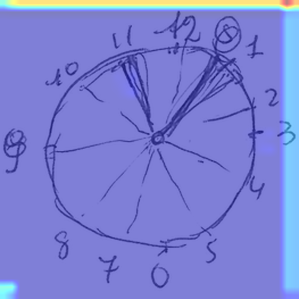
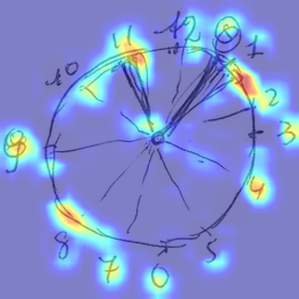
working ui for all models

diff --git a/predictor.py b/predictor.py
@@ -5,6 +5,9 @@ import pandas as pd
 import joblib
 import numpy as np
 
+from torchvision.io import decode_image, ImageReadMode
+from torchvision.transforms import v2
+
 ROOT = os.path.dirname(os.path.abspath(__file__))
 sys.path.append(os.path.join(ROOT, "src"))
 
@@ -12,9 +15,7 @@ from models.cnn import CNN
 from models.mlp import KinematicMLP
 from models.fusion import IntermediateFusionModel
 
-from preprocess import preprocess_image
 from evaluation.gradcam import generate_gradcam
-
 
 class Predictor:
     def __init__(self):
@@ -30,27 +31,40 @@ class Predictor:
         self.mlp.load_state_dict(torch.load("models/mlp.pth", map_location=self.device))
         self.mlp.eval()
 
-        self.mlpselector = joblib.load("models/mlp_selector.pkl")
-        self.mlpscaler = joblib.load("models/mlp_scaler.pkl")
+        self.mlp_selector = joblib.load("models/mlp_selector.pkl")
+        self.mlp_scaler = joblib.load("models/mlp_scaler.pkl")
 
         # fusion model
         self.fusion = IntermediateFusionModel("models/cnn.pth", "models/mlp_fusion.pth", 18)
         self.fusion.load_state_dict(torch.load("models/fusion.pth", map_location=self.device))
         self.fusion.eval()
 
+        self.fusion_scaler = joblib.load("models/fusion_scaler.pkl")
+
     def predict(self, image_path=None, csv_path=None):
         # image only - CNN
         if image_path and not csv_path:
-            image = preprocess_image(image_path)
-            logits = self.cnn(image)
+            image = self._preprocess_image(image_path)
+
+            with torch.no_grad():
+                logits = self.cnn(image)
+
             probs = torch.softmax(logits, dim=1)
             prob = float(probs[0, 1])
+
             gradcam_file = generate_gradcam(self.cnn, image_path)
+
+            if prob >= 0.5:
+                prediction = "Alzheimer"
+                confidence = prob
+            else:
+                prediction = "Control"
+                confidence = 1 - prob
 
             return {
                 "model_used": "CNN",
-                "prediction": "Alzheimer" if prob >= 0.5 else "Control",
-                "confidence": prob,
+                "prediction": prediction,
+                "confidence": confidence,
                 "gradcam": f"/static/gradcams/{gradcam_file}"
             }
 
@@ -78,12 +92,26 @@ class Predictor:
             }
 
         # both image and kinematic - fusion
-        # fix
         if image_path and csv_path:
+            image_tensor = self._preprocess_image(image_path)
+            kinematic_tensor = self._preprocess_fusion_kinematic(csv_path)
+
+            with torch.no_grad():
+                prob = float(self.fusion(image_tensor, kinematic_tensor).squeeze())
+
+            gradcam_file = generate_gradcam(self.cnn, image_path)
+
+            if prob >= 0.5:
+                prediction = "Alzheimer"
+                confidence = prob
+            else:
+                prediction = "Control"
+                confidence = 1 - prob
+
             return {
                 "model_used": "Fusion",
-                "prediction": "pass",
-                "confidence": 0.0,
+                "prediction": prediction,
+                "confidence": confidence,
                 "gradcam": f"/static/gradcams/{gradcam_file}"
             }
 
@@ -100,7 +128,31 @@ class Predictor:
         if "class" in df.columns:
             df = df.drop(columns=["class"])
 
-        X_selected = self.mlpselector.transform(df)
-        X_scaled = self.mlpscaler.transform(X_selected)
+        X_selected = self.mlp_selector.transform(df)
+        X_scaled = self.mlp_scaler.transform(X_selected)
 
+        return torch.tensor(X_scaled, dtype=torch.float32)
+
+    def _preprocess_image(self, image_path):
+        transform = v2.Compose([
+            v2.ToImage(),
+            v2.Resize((299, 299)),
+            v2.ToDtype(torch.float32, scale=True),
+            v2.Normalize(mean=[0.5, 0.5, 0.5], std=[0.5, 0.5, 0.5])
+        ])
+
+        image = decode_image(image_path, mode=ImageReadMode.RGB)
+        image = transform(image)
+        return image.unsqueeze(0)
+
+    def _preprocess_fusion_kinematic(self, csv_path):
+        df = pd.read_csv(csv_path)
+
+        if "ID" in df.columns:
+            df = df.drop(columns=["ID"])
+        if "class" in df.columns:
+            df = df.drop(columns=["class"])
+
+        X = df.values.astype("float32")
+        X_scaled = self.fusion_scaler.transform(X)
         return torch.tensor(X_scaled, dtype=torch.float32)

diff --git a/src/evaluation/gradcam.py b/src/evaluation/gradcam.py
@@ -10,8 +10,6 @@ import numpy as np
 from torchvision.transforms import v2
 from torchvision.io import decode_image, ImageReadMode
 
-from preprocess import preprocess_image
-
 from pytorch_grad_cam import GradCAM
 from pytorch_grad_cam.utils.image import show_cam_on_image
 
@@ -27,7 +25,17 @@ def generate_gradcam(model, image_path, output_dir="static/gradcams"):
     image = decode_image(image_path, mode=ImageReadMode.RGB)
     rgb_img = (v2.Resize((299, 299))(image).permute(1, 2, 0).float().numpy() / 255.0)
 
-    input_tensor = preprocess_image(image_path)
+    transform = v2.Compose([
+            v2.ToImage(),
+            v2.Resize((299, 299)),
+            v2.ToDtype(torch.float32, scale=True),
+            v2.Normalize(mean=[0.5, 0.5, 0.5], std=[0.5, 0.5, 0.5])
+        ])
+
+    image = decode_image(image_path, mode=ImageReadMode.RGB)
+    image = transform(image)
+
+    input_tensor = image.unsqueeze(0)
 
     cam = GradCAM(model=model,target_layers=target_layers)
 

diff --git a/src/training/train_mlp.py b/src/training/train_mlp.py
@@ -8,9 +8,14 @@ import os
 sys.path.append(os.path.join(os.path.dirname(__file__), ".."))
 import joblib
 
-from src.data.kinematic_loader import load_kinematic_data
+from data.kinematic_loader import load_kinematic_data
 from models.mlp import KinematicMLP
 import os
+
+CSV_PATH = "datasets/kinematic_data.csv"
+MODEL_SAVE = "models/mlp.pth"
+SELECTOR_SAVE = "models/mlp_selector.pkl"
+SCALER_SAVE = "models/mlp_scaler.pkl"
 
 def train_mlp(model, train_loader, test_loader, num_epochs=100, learning_rate=0.001, device="cpu", patience=10):
 
@@ -80,12 +85,6 @@ def train_mlp(model, train_loader, test_loader, num_epochs=100, learning_rate=0.
     return model, epoch_losses
 
 if __name__ == "__main__":
-    CSV_PATH = "datasets/kinematic_data.csv"
-    MODEL_SAVE = "models/mlp.pth"
-
-    SELECTOR_SAVE = "models/mlp_selector.pkl"
-    SCALER_SAVE = "models/mlp_scaler.pkl"
-
     train_loader, test_loader, input_size, selector, scaler = load_kinematic_data(CSV_PATH, k=30)
     model = KinematicMLP(input_size=input_size, dropout_rate=0.4)
     model, losses = train_mlp(model, train_loader, test_loader, num_epochs=300, learning_rate=0.0005, patience=25)

diff --git a/src/training/train_mlp_fusion.py b/src/training/train_mlp_fusion.py
@@ -19,12 +19,13 @@ from models.mlp import KinematicMLP
 from training.train_mlp import train_mlp
 from evaluation.metrics import evaluate, plot_confusion_matrix
 import re
+import joblib
 
 DROP_PARTICIPANTS = [46, 79, 106, 107, 133, 134, 135, 136, 137]
 FUSEABLE_TASKS = list(range(2, 26))
 CSV_PATH = "datasets/kinematic_data.csv"
 MODEL_SAVE = "models/mlp_fusion.pth"
-
+SCALER_SAVE = "models/fusion_scaler.pkl"
 
 def load_fusion_kinematic_data(csv_path, test_size=0.2, batch_size=16, random_seed=42):
     """
@@ -67,11 +68,11 @@ def load_fusion_kinematic_data(csv_path, test_size=0.2, batch_size=16, random_se
     test_loader  = DataLoader(KinematicDataset(X_test, y_test),   batch_size=batch_size, shuffle=False)
 
     print(f"Fusion kinematic data: {len(X_train)} train | {len(X_test)} test | 18 features per task")
-    return train_loader, test_loader
+    return train_loader, test_loader, scaler
 
 
 if __name__ == "__main__":
-    train_loader, test_loader = load_fusion_kinematic_data(CSV_PATH)
+    train_loader, test_loader, scaler = load_fusion_kinematic_data(CSV_PATH)
 
     model = KinematicMLP(input_size=18, dropout_rate=0.4)
     model, losses = train_mlp(model, train_loader, test_loader, num_epochs=300, learning_rate=0.0005, patience=25)
@@ -81,4 +82,7 @@ if __name__ == "__main__":
 
     os.makedirs("models", exist_ok=True)
     torch.save(model.state_dict(), MODEL_SAVE)
+    joblib.dump(scaler, "models/fusion_scaler.pkl")
+    
     print(f"Fusion MLP saved to {MODEL_SAVE}")
+    print(f"Fusion scaler saved to {SCALER_SAVE}")